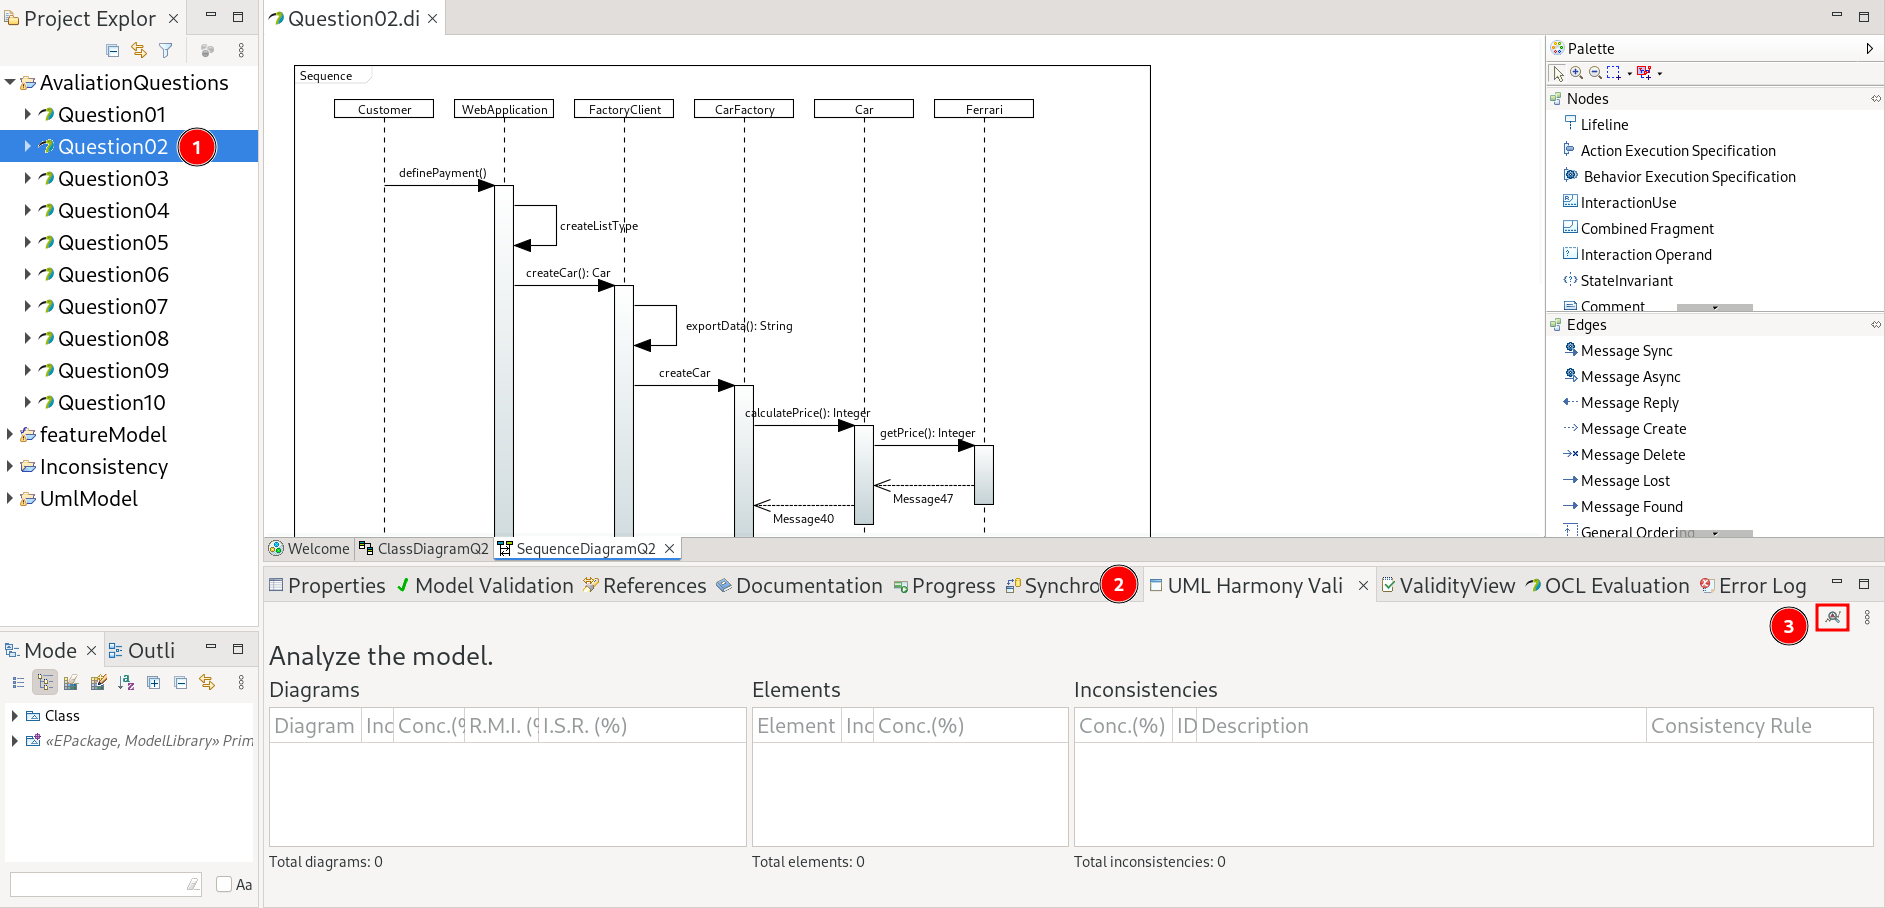
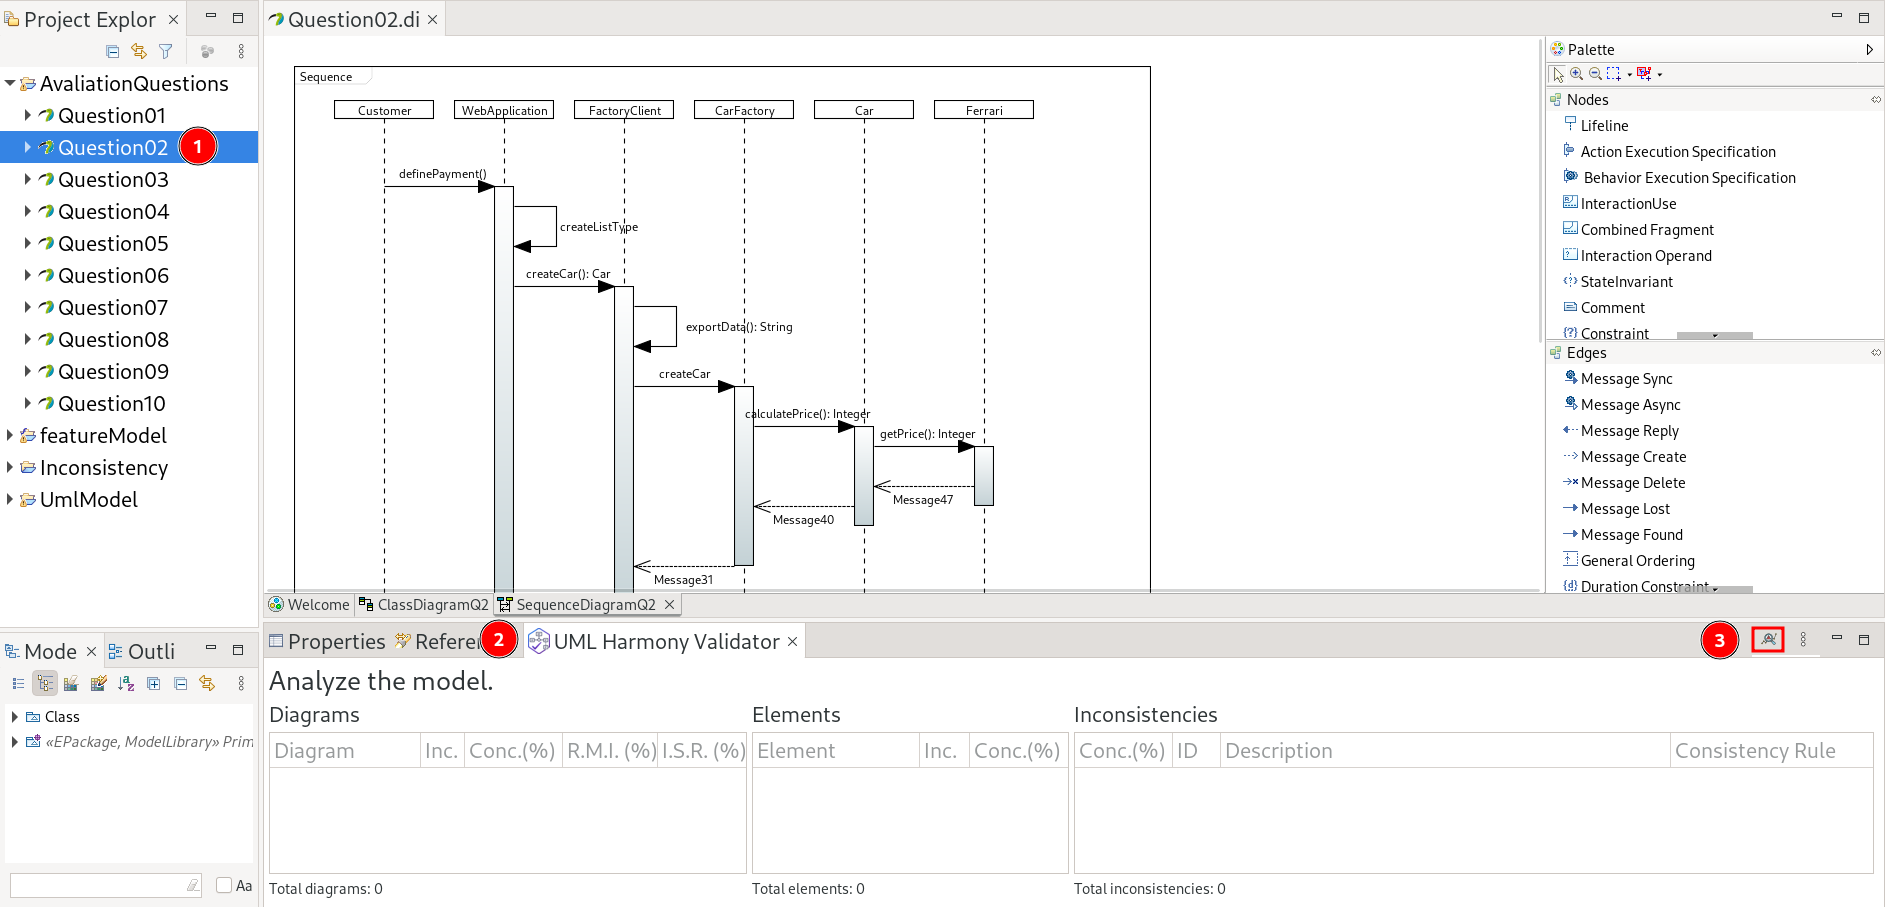
docs: update images and separate in sections

diff --git a/README.md b/README.md
@@ -14,6 +14,8 @@ It connects to a remote validation [service](https://github.com/luanlazz/uml-har
     - [Option 2 – Build from Source (manual)](#option-2--build-from-source-manual)
   - [Configuration](#configuration)
   - [Usage](#usage)
+    - [Analyzing a model](#analyzing-a-model)
+    - [Consistent model](#consistent-model)
   - [Supported Inconsistency Types](#supported-inconsistency-types)
   - [License](#license)
   - [Related Projects](#related-projects)
@@ -102,6 +104,8 @@ This plug-in provides an integrated workflow for model validation within Eclipse
 
 ## Usage
 
+### Analyzing a model
+
 1. Open your UML project (1) in the Eclipse workspace and navigate to the UML model view. In the plug-in (2), trigger the analysis (3) via the shortcut icon or navigate to **Menu > Analyze Model**.
 
    ![Analyze model](images/use_1.png)
@@ -114,12 +118,14 @@ This plug-in provides an integrated workflow for model validation within Eclipse
 
    ![Navigate](images/use_3.png)
 
-4. When the **model has no inconsistencies**, the panel is cleared automatically.
-
-   ![Consistent](images/use_4.png)
-
 > [!NOTE]
 > Internet or local network access is required to reach the configured service URL.
+
+### Consistent model
+
+When the **model has no inconsistencies**, the panel is cleared automatically.
+
+   ![Consistent](images/use_4_consistent.png)
 
 ## Supported Inconsistency Types
  
